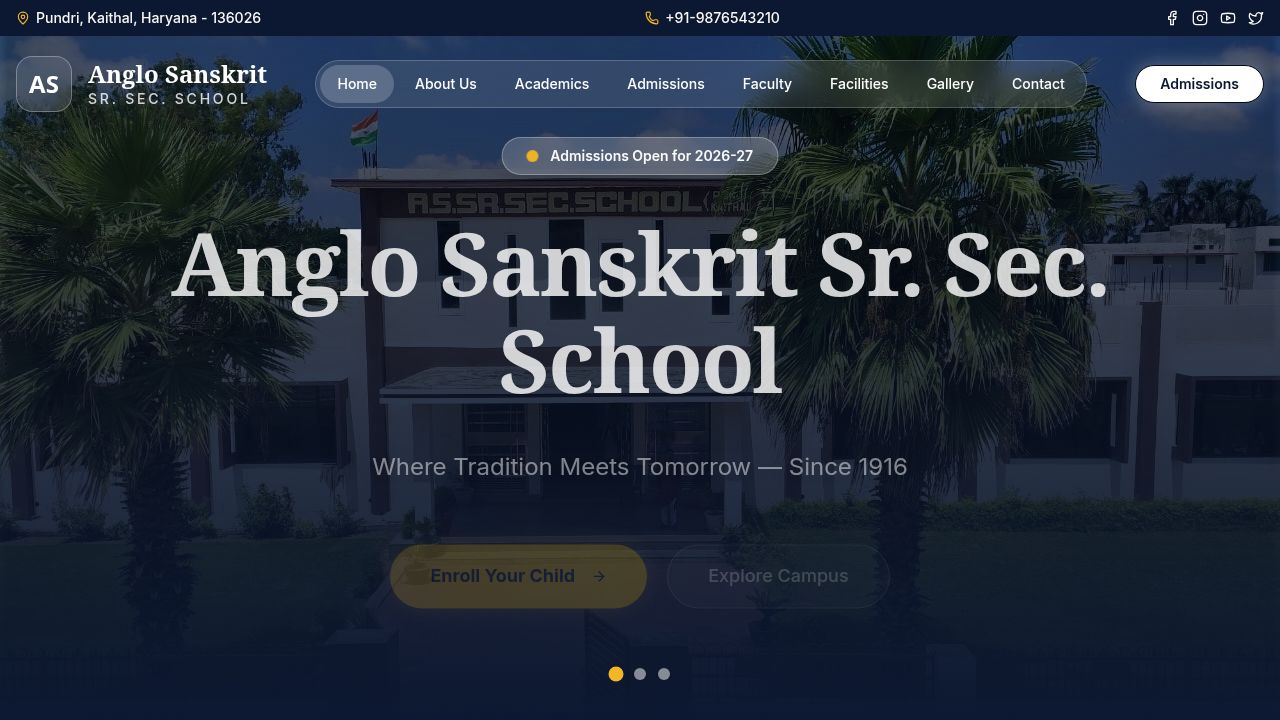
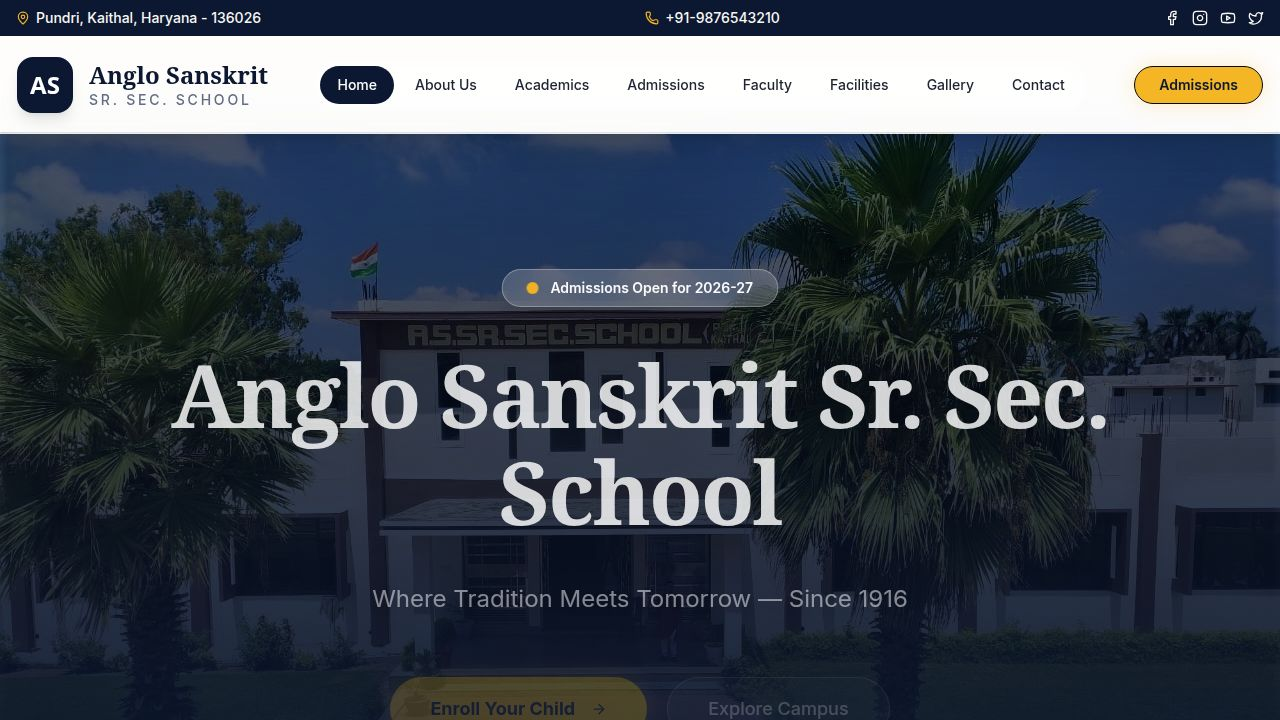
Update school map to show the correct location
Replace existing generic map embeds with a specific Google Maps embed for Anglo Sanskrit Sr. Sec. School, Pundri in both Contact.tsx and Home.tsx.

Replit-Commit-Author: Agent
Replit-Commit-Session-Id: 8bfe6f9f-e6d2-4e21-9bb5-99b2c9fff55b
Replit-Commit-Checkpoint-Type: full_checkpoint
Replit-Commit-Event-Id: 77ce80d3-09cf-4365-8111-347dd8bbe1d2
Replit-Commit-Screenshot-Url: https://storage.googleapis.com/screenshot-production-us-central1/d7200ab8-26d9-4a56-bb7e-80438ee5f18e/8bfe6f9f-e6d2-4e21-9bb5-99b2c9fff55b/6fKXlk3
Replit-Helium-Checkpoint-Created: true

diff --git a/artifacts/school-site/src/pages/Contact.tsx b/artifacts/school-site/src/pages/Contact.tsx
@@ -187,14 +187,14 @@ export default function Contact() {
             className="mt-24 rounded-[2rem] overflow-hidden border border-border/40 shadow-xl h-[500px] w-full relative group"
           >
             <iframe 
-              src="https://www.google.com/maps/embed?pb=!1m18!1m12!1m3!1d27606.314275098902!2d76.54146030310237!3d29.75704987413644!2m3!1f0!2f0!3f0!3m2!1i1024!2i768!4f13.1!3m3!1m2!1s0x390df03ddc2c0199%3A0xcda8d7e0fb8f0e5!2sPundri%2C%20Haryana%20136026!5e0!3m2!1sen!2sin!4v1708451234567!5m2!1sen!2sin" 
+              src="https://maps.google.com/maps?q=Anglo+Sanskrit+Sr.+Sec.+School+Pundri+Haryana+136026&output=embed&z=17" 
               width="100%" 
               height="100%" 
               style={{ border: 0 }} 
               allowFullScreen={false} 
               loading="lazy" 
               referrerPolicy="no-referrer-when-downgrade"
-              title="Pundri Google Map"
+              title="Anglo Sanskrit Sr. Sec. School Map"
               className="absolute inset-0 transition-all duration-700 opacity-90 group-hover:opacity-100"
             ></iframe>
           </motion.div>

diff --git a/artifacts/school-site/src/pages/Home.tsx b/artifacts/school-site/src/pages/Home.tsx
@@ -586,14 +586,14 @@ export default function Home() {
                 className="h-full min-h-[500px] rounded-2xl overflow-hidden relative border border-border/40 shadow-lg"
               >
                 <iframe 
-                  src="https://www.google.com/maps/embed?pb=!1m18!1m12!1m3!1d27606.314275098902!2d76.54146030310237!3d29.75704987413644!2m3!1f0!2f0!3f0!3m2!1i1024!2i768!4f13.1!3m3!1m2!1s0x390df03ddc2c0199%3A0xcda8d7e0fb8f0e5!2sPundri%2C%20Haryana%20136026!5e0!3m2!1sen!2sin!4v1708451234567!5m2!1sen!2sin" 
+                  src="https://maps.google.com/maps?q=Anglo+Sanskrit+Sr.+Sec.+School+Pundri+Haryana+136026&output=embed&z=17" 
                   width="100%" 
                   height="100%" 
                   style={{ border: 0 }} 
                   allowFullScreen={false} 
                   loading="lazy" 
                   referrerPolicy="no-referrer-when-downgrade"
-                  title="School Location"
+                  title="Anglo Sanskrit Sr. Sec. School Location"
                   className="absolute inset-0"
                 ></iframe>
                 